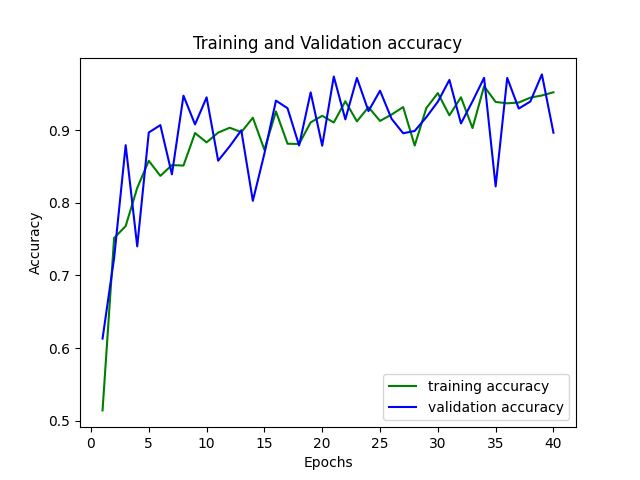
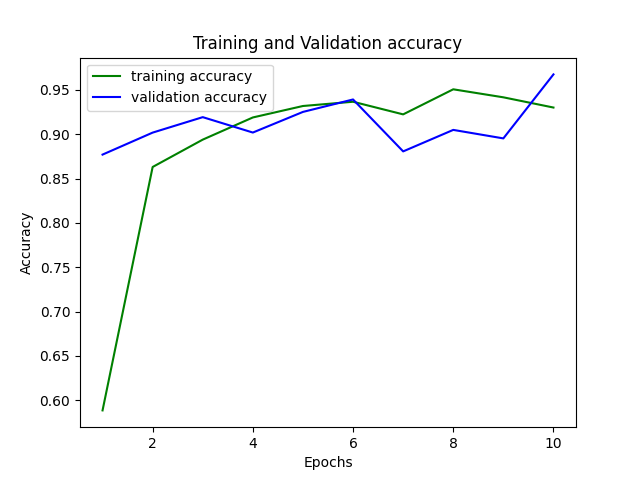
model_00

diff --git a/model_00.py b/model_00.py
@@ -7,7 +7,7 @@ import matplotlib.pyplot as plt
 
 width = 128 
 height = 128
-epochs = 40
+epochs = 10
 
 train_datagen = ImageDataGenerator(
     rescale=1./255,
@@ -29,7 +29,7 @@ train_generator = train_datagen.flow_from_directory(
 validation_generator = test_datagen.flow_from_directory(
     "./images/validation", target_size=(height,height), batch_size=32,class_mode='binary',shuffle=True)
 
-
+'''
 model = keras.Sequential()
 model.add(keras.layers.Flatten(input_shape=[width,height,3]))
 model.add(keras.layers.Dense(2048, activation='relu'))
@@ -39,12 +39,24 @@ model.add(keras.layers.Dense(512, activation='relu'))
 model.add(keras.layers.Dense(2048, activation=keras.layers.LeakyReLU(alpha=0.01))) # keras.layers.LeakyReLU(alpha=0.01)
 model.add(keras.layers.Dense(256, activation='relu'))
 model.add(keras.layers.Dense(128, activation='relu'))
+model.add(keras.layers.Dense(16)) # , activation='softmax'
+'''
+
+model = keras.Sequential()
+model.add(keras.layers.Flatten(input_shape=[width,height,3]))
+model.add(keras.layers.Dense(32, activation='relu'))
+model.add(keras.layers.Dense(32, activation='relu'))
+model.add(keras.layers.Dense(32, activation='relu'))
+model.add(keras.layers.Dense(32, activation='relu'))
+model.add(keras.layers.Dense(32, activation=keras.layers.LeakyReLU(alpha=0.01))) # keras.layers.LeakyReLU(alpha=0.01)
+#model.add(keras.layers.Dense(256, activation='relu'))
+#model.add(keras.layers.Dense(128, activation='relu'))
 model.add(keras.layers.Dense(16, activation='softmax'))
 
 model.summary()
 
 model.compile(optimizer='adam', 
-    loss='sparse_categorical_crossentropy',
+    loss= 'sparse_categorical_crossentropy',
     metrics=['acc'])
 
 history = model.fit_generator(train_generator, 
